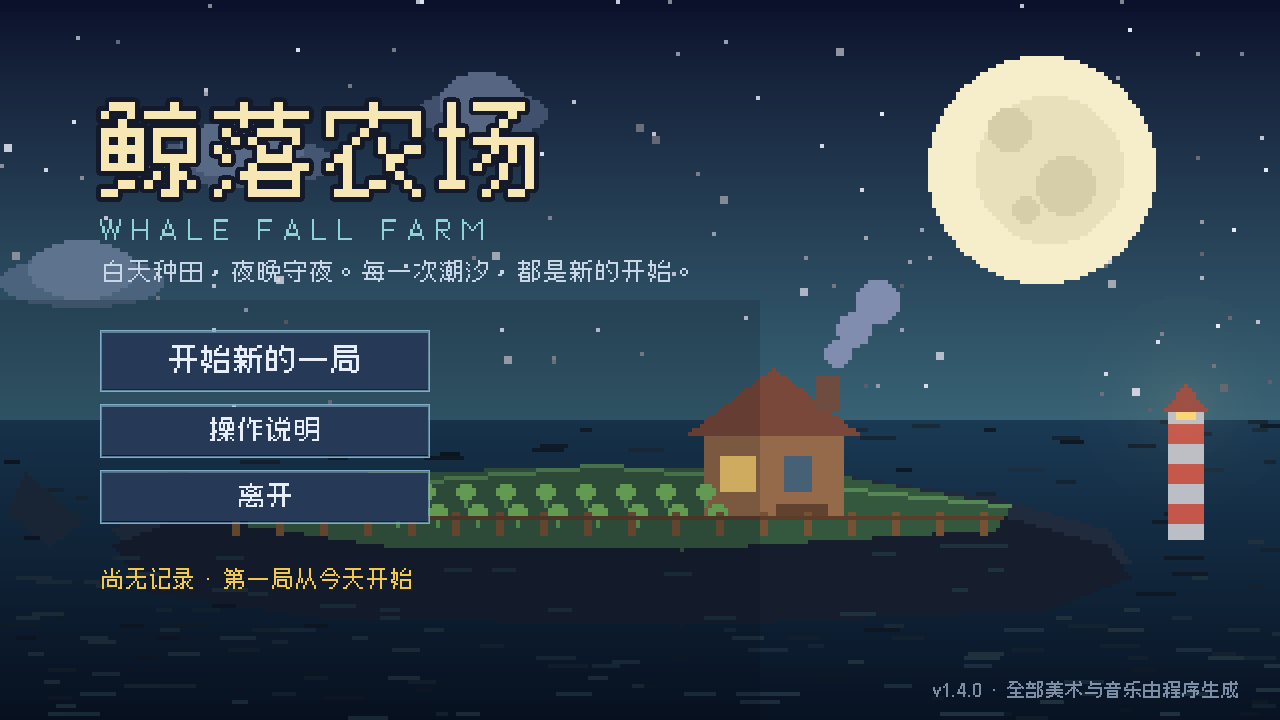
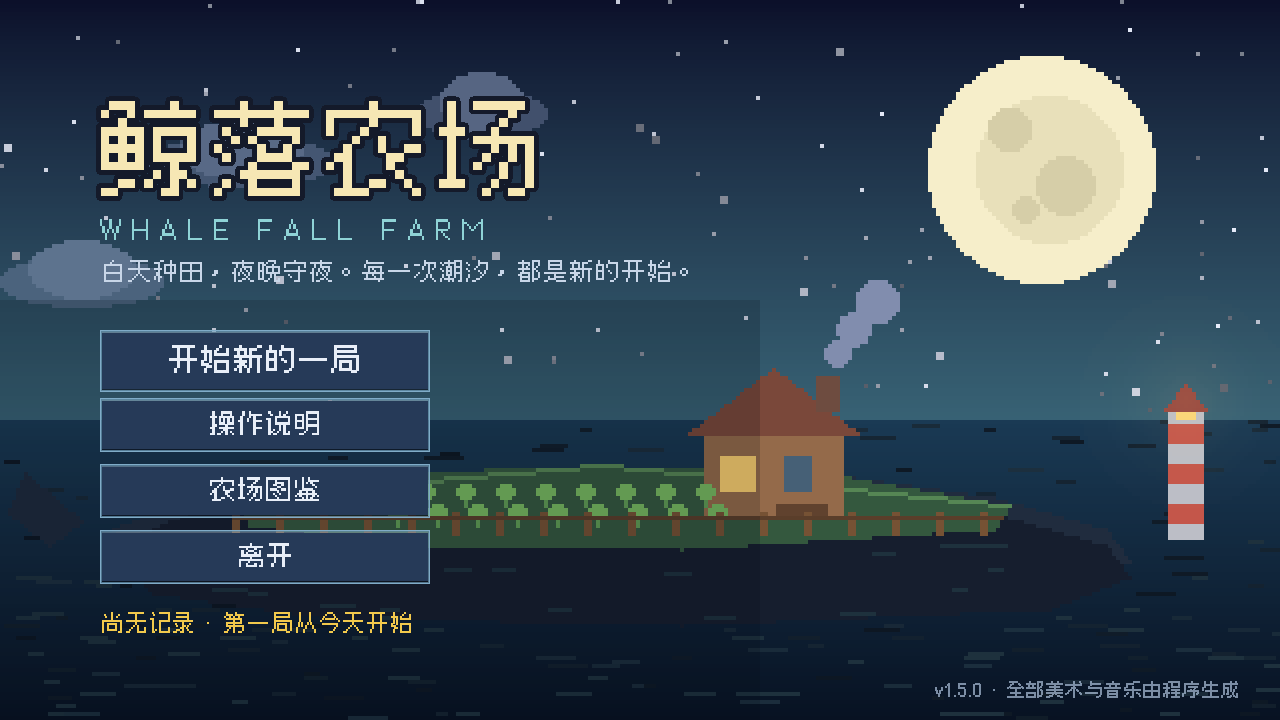
v1.5.0: codex, stats, endless boss mods and elites (updates 09-12)

diff --git a/README.md b/README.md
@@ -10,6 +10,7 @@
 ![手机实机](screenshots/shot_mobile_phone.png)
 ![雨天](screenshots/shot_rain.png)
 ![雷雨](screenshots/shot_storm.png)
+![图鉴](screenshots/shot_codex.png)
 ![南瓜王](screenshots/shot_boss.png)
 
 ## 玩法
@@ -19,6 +20,8 @@
 - **夜晚**：潮水带来史莱姆、偷穗鸦、缠根怪、沼泽蛙和铁甲虫。用镰刀清场；乌鸦会优先啃食成熟的作物。萤火虫会飘在田上。
 - **黎明**：三选一随机祝福，然后可以在**潮汐商店**用金币买种子、回血、加生命上限。
 - **成就**：8 个成就（首收、50 收、50 杀、第 5 天、Boss、无尽 10 天、金色作物、雷雨）解锁时弹横幅并写入存档。
+- **农场图鉴 / 统计**：标题界面打开图鉴，查看已发现的作物、怪物、祝福；统计页记录游玩局数、最佳天数、累计收获/击杀/金币。
+- **无尽深度**：第 10/13/16… 夜的南瓜王会带「狂暴 / 再生 / 召唤」词缀；普通怪有 8%+ 概率变成精英（双倍生命与金币）。
 - **第 7 夜**：腐化南瓜王苏醒。它会吐种子弹、在血量过半和残血时召唤潮泥怪；打倒它才能迎来胜利。
 - **无尽模式**：通关后可以继续。每 3 天再战一次南瓜王，怪潮越来越厚，直到农场沉没。最佳纪录按存活天数结算。
 - 地图装饰、天气、夜间波次、祝福与商店都是随机的，所以每一局都不一样。
@@ -60,8 +63,8 @@
 
 到 [Releases](https://github.com/ElectLive/whale-fall-farm/releases) 下载最新版：
 
-- Windows：`WhaleFallFarm-v1.4.0-win64.zip` — 解压双击 `WhaleFallFarm.exe`，绿色免安装，存档在 exe 旁边。
-- Android：`WhaleFallFarm-v1.4.0-android.apk` — Android 7.0+ / arm64，允许「安装未知来源应用」即可安装。APK 使用调试证书签名，适合直接安装试玩，不适合上架应用商店。
+- Windows：`WhaleFallFarm-v1.5.0-win64.zip` — 解压双击 `WhaleFallFarm.exe`，绿色免安装，存档在 exe 旁边。
+- Android：`WhaleFallFarm-v1.5.0-android.apk` — Android 7.0+ / arm64，允许「安装未知来源应用」即可安装。APK 使用调试证书签名，适合直接安装试玩，不适合上架应用商店。
 
 ## 从源码运行
 
@@ -106,7 +109,7 @@ python tools/gen_audio.py   # 4 首循环 BGM + 17 个音效 + 1 条雨声（需
 
 ```bash
 # 无头逻辑测试：种田、昼夜、商店、祝福、Boss、无尽、天气、移动端触控、存档
-Godot --headless --path . -- --selftest     # 64/64 PASS
+Godot --headless --path . -- --selftest     # 66/66 PASS
 
 # 实时冒烟测试：真的种一轮、传送到怪身边砍死几只、进入黎明
 Godot --headless --path . -- --smoke
@@ -164,6 +167,7 @@ docs/
 - **v1.2.0** — **Android 适配与 APK**：虚拟摇杆、触控攻击/互动/暂停、可点选种子栏、返回键暂停、手机存档路径；Windows 版同步。
 - **v1.3.0** — 第 5 种作物「辣椒」+ 5 格种子栏；金色作物变异（3 倍售价）；手机震动与切后台自动暂停；农事 QoL（种子用完自动切换、收获金额提示）。
 - **v1.4.0** — 4 个新祝福（暴击/收割回血/夜战/点金手）；新怪物「铁甲虫」（护甲减伤）；雾天与雷雨天气（闪电、雨声、自动浇水）；8 个成就与解锁横幅。
+- **v1.5.0** — 农场图鉴与终身统计；无尽 Boss 词缀（狂暴/再生/召唤）；精英怪（双倍生命与金币）；图鉴/统计界面。
 
 ## License
 

diff --git a/CHANGELOG.md b/CHANGELOG.md
@@ -3,6 +3,21 @@
 All notable changes to Whale Fall Farm are documented here.
 Format follows [Keep a Changelog](https://keepachangelog.com/); versions use semver.
 
+## v1.5.0 — 2026-10-29
+
+### Added
+
+- **Farm codex**: title-screen screen listing discovered crops, monsters and relics; discovery is saved.
+- **Lifetime stats page**: runs, best day/kills, total gold, crops harvested, enemies killed, golden harvests, achievements and codex progress.
+- **Endless boss modifiers**: from day 10 the Pumpkin King rolls 狂暴 (+30% speed), 再生 (1 HP/s) or 召唤 (extra minions), shown in the boss bar.
+- **Elite enemies**: 8% + day×0.5% chance to spawn with double HP, double gold and a larger golden sprite.
+- Codex/stats buttons on the title screen; `--shot=codex` and `--shot=stats` dev scenarios.
+
+### Changed
+
+- Boss HUD name includes its modifier; summon count is 3 for the summoner modifier.
+- Discovery hooks for planting, spawning and relic picks.
+
 ## v1.4.0 — 2026-10-29
 
 ### Added
@@ -122,7 +137,8 @@ Format follows [Keep a Changelog](https://keepachangelog.com/); versions use sem
 - Fully procedural pixel art (Pillow), chiptune music and SFX (numpy), Cubic 11 font.
 - Headless self-test (`--selftest`), real-time smoke test (`--smoke`), screenshot tooling.
 
-[Unreleased]: https://github.com/ElectLive/whale-fall-farm/compare/v1.4.0...main
+[Unreleased]: https://github.com/ElectLive/whale-fall-farm/compare/v1.5.0...main
+[v1.5.0]: https://github.com/ElectLive/whale-fall-farm/releases/tag/v1.5.0
 [v1.4.0]: https://github.com/ElectLive/whale-fall-farm/releases/tag/v1.4.0
 [v1.3.0]: https://github.com/ElectLive/whale-fall-farm/releases/tag/v1.3.0
 [v1.2.0]: https://github.com/ElectLive/whale-fall-farm/releases/tag/v1.2.0

diff --git a/docs/design.md b/docs/design.md
@@ -26,6 +26,8 @@
 - 顶部显示 Boss 血条；击杀后清空剩余小怪并在 1.6 秒后进入胜利结算。
 - Boss 在场时不会因时间结束而清场，必须击杀（或玩家阵亡）。
 - **无尽模式**：首次通关后可继续；此后每 3 天（10、13、16…）再战一次南瓜王，血量随天数增长，直到玩家阵亡。
+- **无尽词缀**：第 10 夜起每次 Boss 随机带一个词缀——狂暴（移速 +30%）、再生（每秒回 1 血）、召唤（每次多召 1 只小怪），血条显示词缀名。
+- **精英怪**：普通怪出生时按 `8% + 天数×0.5%` 概率变精英，生命与金币 ×2，体型放大 22%，金色 tint。
 
 ## 潮汐商店
 
@@ -98,6 +100,13 @@
 - 8 个成就定义在 `GameData.ACHIEVEMENTS`，解锁后写入 `save_data.cfg`，并用横幅提示。
 - 触发点：首次收获、累计 50 收获、累计 50 击杀、到达第 5 天、击败 Boss、无尽第 10 天、收获金色作物、经历雷雨。
 - 统计计数（收获/击杀/金色收获）也保存在存档里，供后续图鉴/统计页使用。
+
+### 图鉴与档案
+
+- 标题界面「农场图鉴」打开 `CodexScreen`：作物、怪物、祝福三块；未发现显示 ？？？。
+- 发现记录：种下作物、怪物出生、选择祝福时写入 `SaveGame.discovered_*`。
+- 「统计」页展示终身数据：局数、最佳存活/击杀、累计金币、累计收获/击杀、金色作物、成就与图鉴进度。
+- 图鉴和统计共用存档，不额外占用文件。
 
 ### 经济
 

diff --git a/docs/devlog.md b/docs/devlog.md
@@ -1,5 +1,20 @@
 # 开发日志
 
+## v1.5.0 — 2026-10-29（更新 09–12）
+
+### 内容
+
+- **更新 09**：农场图鉴（作物/怪物/祝福发现记录，未发现显示 ？？？），标题界面入口。
+- **更新 10**：终身统计页（局数、最佳天数/击杀、累计金币、收获/击杀/金色、成就与图鉴进度）。
+- **更新 11**：无尽 Boss 词缀：狂暴（+30% 移速）、再生（每秒回 1 血）、召唤（每次多召 1 只），Boss 血条显示词缀名。
+- **更新 12**：精英怪：8% + 天数×0.5% 概率，双倍生命/金币、体型放大、金色 tint。
+
+### 验证记录
+
+- `--selftest`：**66/66 PASS**（Boss 词缀、精英双倍属性）。
+- 截图：codex / stats 两个新界面。
+- 版本 1.5.0，Android versionCode 6。
+
 ## v1.4.0 — 2026-10-29（更新 05–08）
 
 ### 内容

diff --git a/docs/updates20.md b/docs/updates20.md
@@ -23,8 +23,8 @@
 
 - [x] 09. 农场图鉴（作物/怪物/祝福发现记录）
 - [x] 10. 终身统计页（收获、击杀、游玩次数、金币）
-- [ ] 11. 无尽 Boss 词缀（狂暴 / 再生 / 召唤）
-- [ ] 12. 精英怪（更大、更硬、更多金币）
+- [x] 11. 无尽 Boss 词缀（狂暴 / 再生 / 召唤）
+- [x] 12. 精英怪（更大、更硬、更多金币）
 
 ## v1.6.0 — 挑战与陪伴
 
